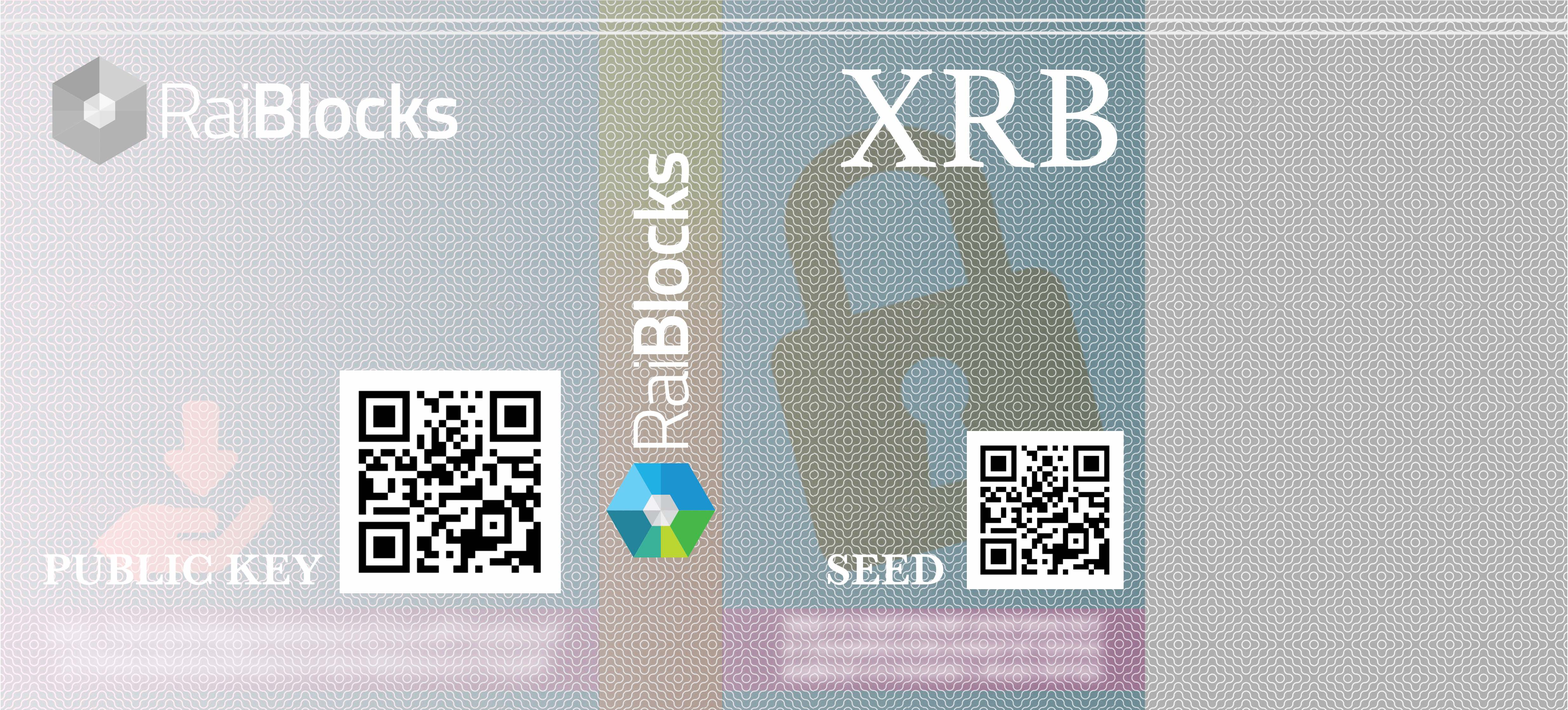
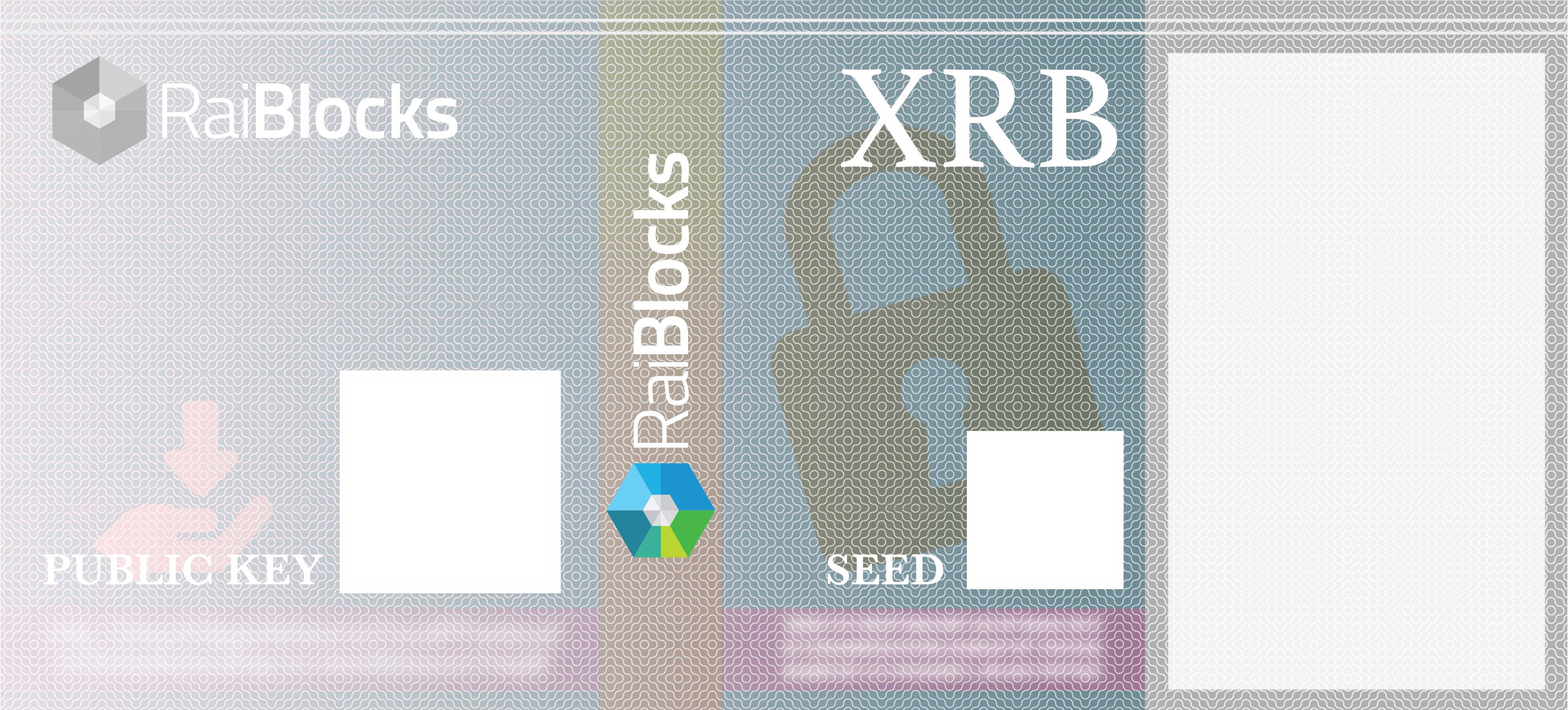
Replacing default art of wallet paper with empty data.

Changed region(s): [[0.7482, 0.0616, 0.9976, 0.9862], [0.2182, 0.5239, 0.3429, 0.8321], [0.6235, 0.6163, 0.717, 0.8321]]

diff --git a/src/components/Generator.js b/src/components/Generator.js
@@ -79,7 +79,7 @@ class Generator extends Component {
                         type="text"
                         icon="call_received"
                         s={12}
-                        label="Account Address"
+                        label="Account Address (Public Key)"
                         placeholder={"xrb_3i1aq1cchnmbn9x5rsbap8b15akfh7wj7pwskuzi7ahz8oq6cobd99d4r3b7"}
                         validade={true}
                         component={this.renderInput}
@@ -89,7 +89,7 @@ class Generator extends Component {
                         type="text"
                         icon="account_balance_wallet"
                         s={12}
-                        label="Account Identifier"
+                        label="Account Identifier (Private Key)"
[1 lines of base64/hex data omitted]
                         validade={true}
                         component={this.renderInput}
@@ -99,7 +99,7 @@ class Generator extends Component {
                         type="text"
                         icon="lock"
                         s={12}
-                        label="Seed"
+                        label="Seed (Top Secret)"
                         placeholder={"0000000000000000000000000000000000000000000000000000000000000000"}
                         validade={true}
                         component={this.renderInput}

diff --git a/src/components/AppShell.js b/src/components/AppShell.js
@@ -8,7 +8,7 @@ class AppShell extends Component {
         return (
             <div className="center">
                 <div className="app-shell-header" style={{padding: 32}}>
-                    <a href="/">
+                    <a href="./">
                         <img src={Logo} width={300} />
                     </a>
                     <div className="gray">
